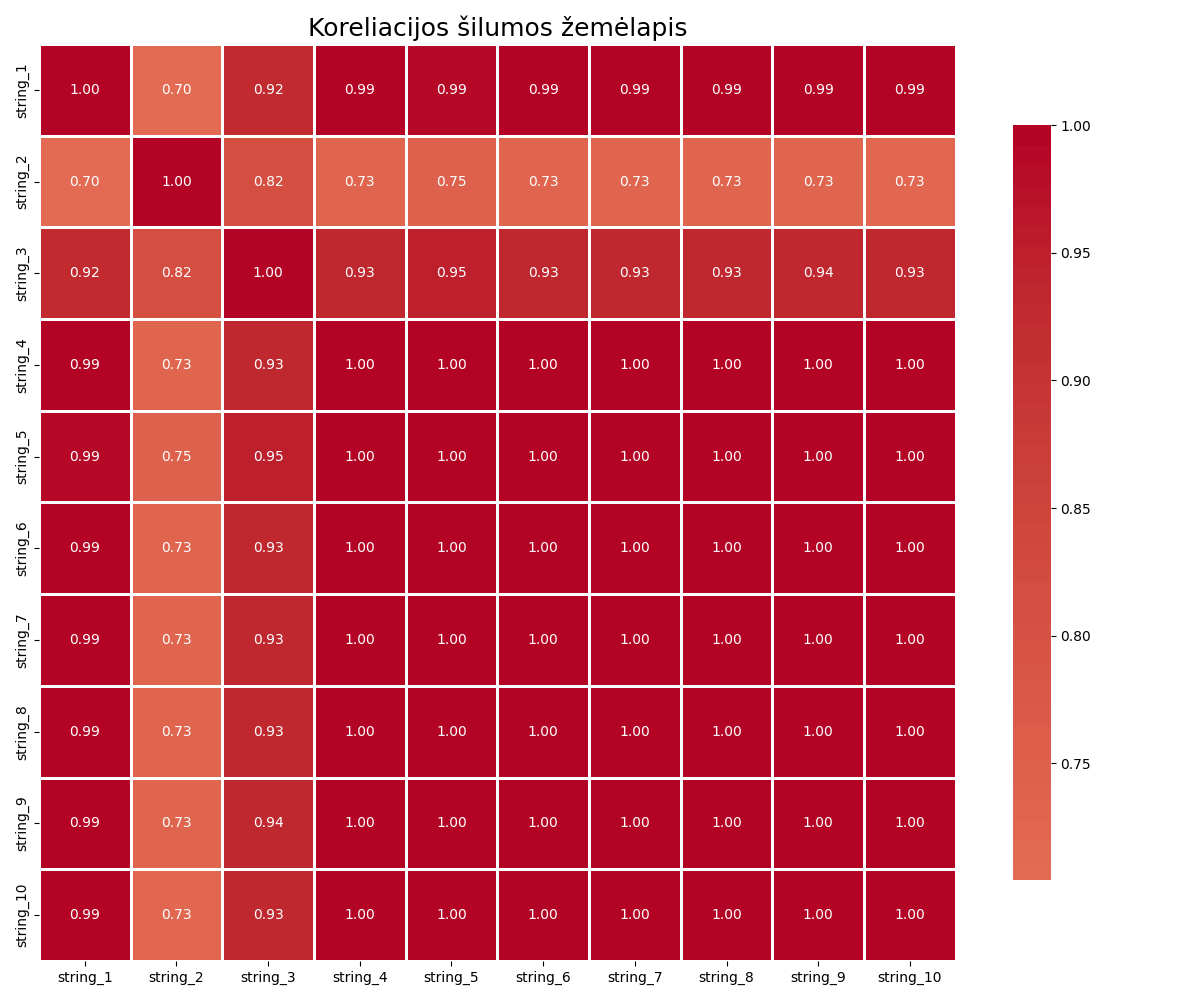
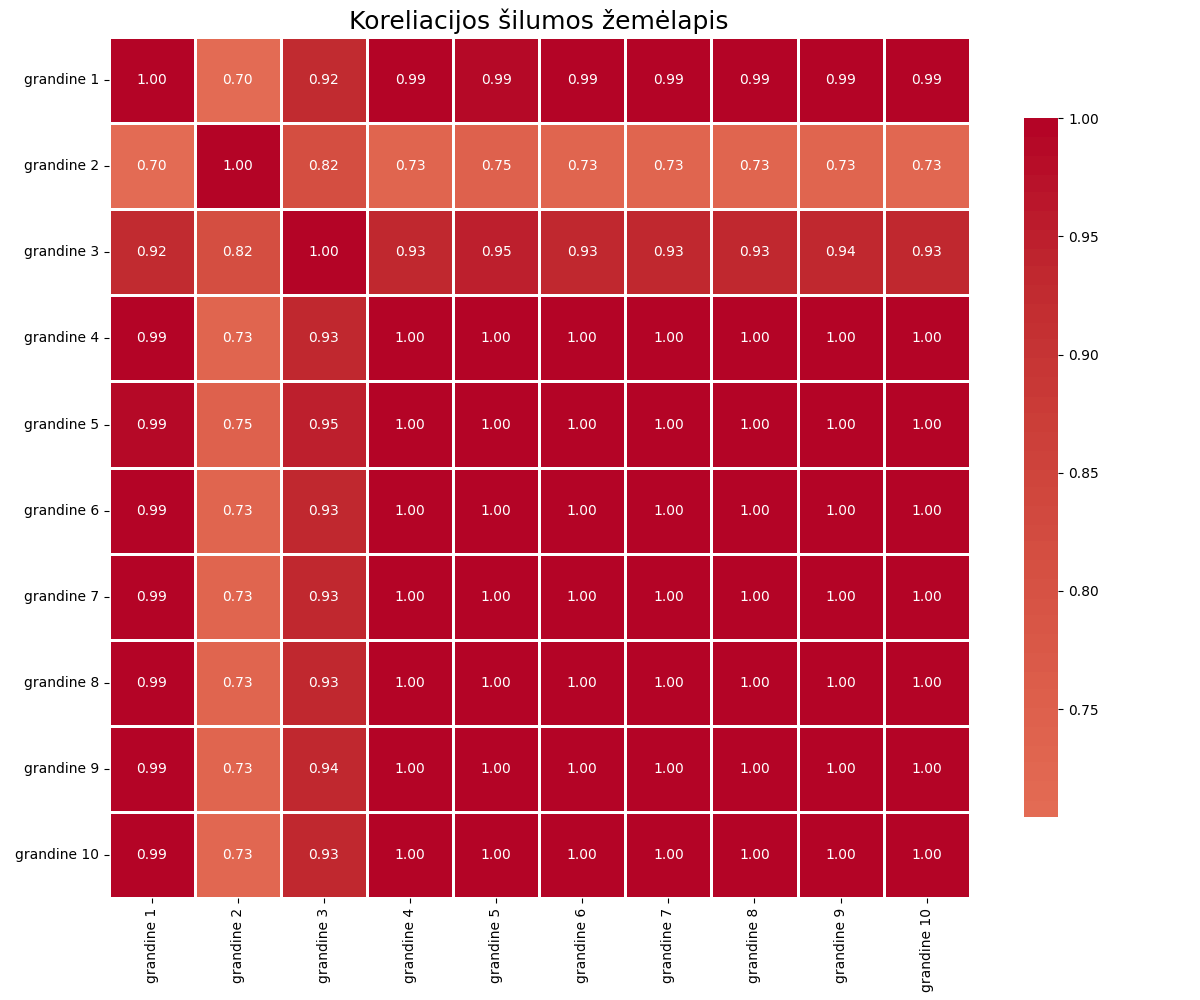
grafikeliai dar pataisyti

diff --git a/lab1.py b/lab1.py
@@ -56,9 +56,21 @@ correlation_matrix = data_hourly.select_dtypes(include=['number']).corr()
 print(correlation_matrix)
 
 # %%
+correlation_matrix.index = [f"Grandinė {i+1}" for i in range(len(correlation_matrix.index))]
+correlation_matrix.columns = [f"Grandinė {i+1}" for i in range(len(correlation_matrix.columns))]
+
 plt.figure(figsize=(12, 10))
-sns.heatmap(correlation_matrix, annot=True, fmt='.2f', cmap='coolwarm', 
-            center=0, square=True, linewidths=1, cbar_kws={"shrink": 0.8})
+sns.heatmap(
+    correlation_matrix,
+    annot=True,
+    fmt='.2f',
+    cmap='coolwarm',
+    center=0,
+    square=True,
+    linewidths=1,
+    cbar_kws={"shrink": 0.8}
+)
+
 plt.title("Koreliacijos šilumos žemėlapis", fontsize=18)
 plt.tight_layout()
 plt.savefig("grafikai/koreliacijos_heatmap.png")
@@ -72,7 +84,7 @@ normalized_minmax = (data[numeric_cols] - data[numeric_cols].min()) / (data[nume
 #standartizacija
 standartizuotas = (data[numeric_cols] - data[numeric_cols].mean()) / data[numeric_cols].std()
 # %%
-colors = ["#D00000", "#ffba08", "#2e19b9", "#8fe388", "#1b998b", "#3185fc",
+colors = ["#D00000", "#ffba08", "#cbff8c", "#8fe388", "#1b998b", "#3185fc",
           "#5d2e8c", "#46237a", "#ff7b9c", "#ff9b85"]
 
 # Taškiniai grafikai
@@ -87,7 +99,7 @@ sm = scatter_matrix(
     alpha=0.6,
     figsize=(20, 20),
     diagonal='kde',
-    color=colors[2]  
+    color=colors[5]  
 )
 
 plt.suptitle("Grandinėse pagamintos elektros sklaidos diagrama", fontsize=24)
@@ -95,7 +107,7 @@ plt.savefig("grafikai/sklaidos.png")
 
 # %%
 # Dažnio diagramos - histogramos
-fig, axes = plt.subplots(2, 5, figsize=(20, 8))
+fig, axes = plt.subplots(2, 5, figsize=(20, 8), sharey=True)
 axes = axes.flatten()
 columns = [f"string_{i}" for i in range(1, 11)]
 
@@ -131,47 +143,14 @@ plt.xticks(
 )
 
 plt.ylabel("Elektra, pagaminta grandinėje (kWh)")
-plt.title("Per valandą pagamintos elektros kiekis skirtingose grandinėse") 
+plt.title("Per valandą pagaminta elektra skirtingose grandinėse") 
 
 plt.grid(axis="y", alpha=0.3)
 plt.savefig("grafikai/boxplotai.png")
 plt.show()
 
-# %% 
-
-# DG siulyciau sito grafiko atsisakyt nes pakeitus datos formata jis nebeatrodo taip gerai
-data_hourly.index = pd.to_datetime(data_hourly.index, format="%m-%d-%H")
-
-columns = [f"string_{i}" for i in range(1, 11)]
-display_names = [f"Grandinė {i}" for i in range(1, 11)]
-
-plt.figure(figsize=(20, 8))
-
-for i, col in enumerate(columns):
-    plt.plot(
-        data_hourly.index,
-        data_hourly[col],
-        label=display_names[i],
-        linewidth=2,
-        color=colors[i]
-    )
-
-ax = plt.gca()
-ax.xaxis.set_major_locator(mdates.DayLocator(interval=10))
-ax.xaxis.set_major_formatter(mdates.DateFormatter('%m-%d'))
-
-plt.xticks(rotation=45)
-
-plt.xlabel("Data")
-plt.ylabel("Pagaminta elektra (kWh)")
-plt.title("Grandinių elektros gamybos kitimas laike")
-plt.legend()
-plt.grid(alpha=0.3)
-
-plt.tight_layout()
-plt.savefig("grafikai/laikute.png")
-plt.show()
 #%%
+#laikute skirtinguose plot'uose
 fig, axes = plt.subplots(5, 2, figsize=(20, 16),sharey=True)
 axes = axes.flatten()
 
@@ -190,11 +169,13 @@ plt.show()
 plt.figure(figsize=(20, 8))
 sns.heatmap(data_hourly[columns].T, cmap='YlOrRd', cbar_kws={'label': 'kWh'})
 ax = plt.gca()
+new_labels = [f"Grandinė {i}" for i in range(1, 11)]
+ax.set_yticklabels(new_labels, rotation=0)
 tick_positions = range(0, len(data_hourly.index), 16)
 ax.set_xticks(tick_positions)
 ax.set_xticklabels([data_hourly.index[i].strftime('%m-%d') for i in tick_positions])
-plt.xlabel("Data-Valanda")
-plt.title("Pagamintos elektros kiekis grandinėse per 3 mėnesius")
+plt.xlabel("Data")
+plt.title("Pagaminto elektros kiekio grandinėse šilumos žemėlapis")
 plt.tight_layout()
 plt.savefig("grafikai/laikute_heatmap.png")
 plt.show()
